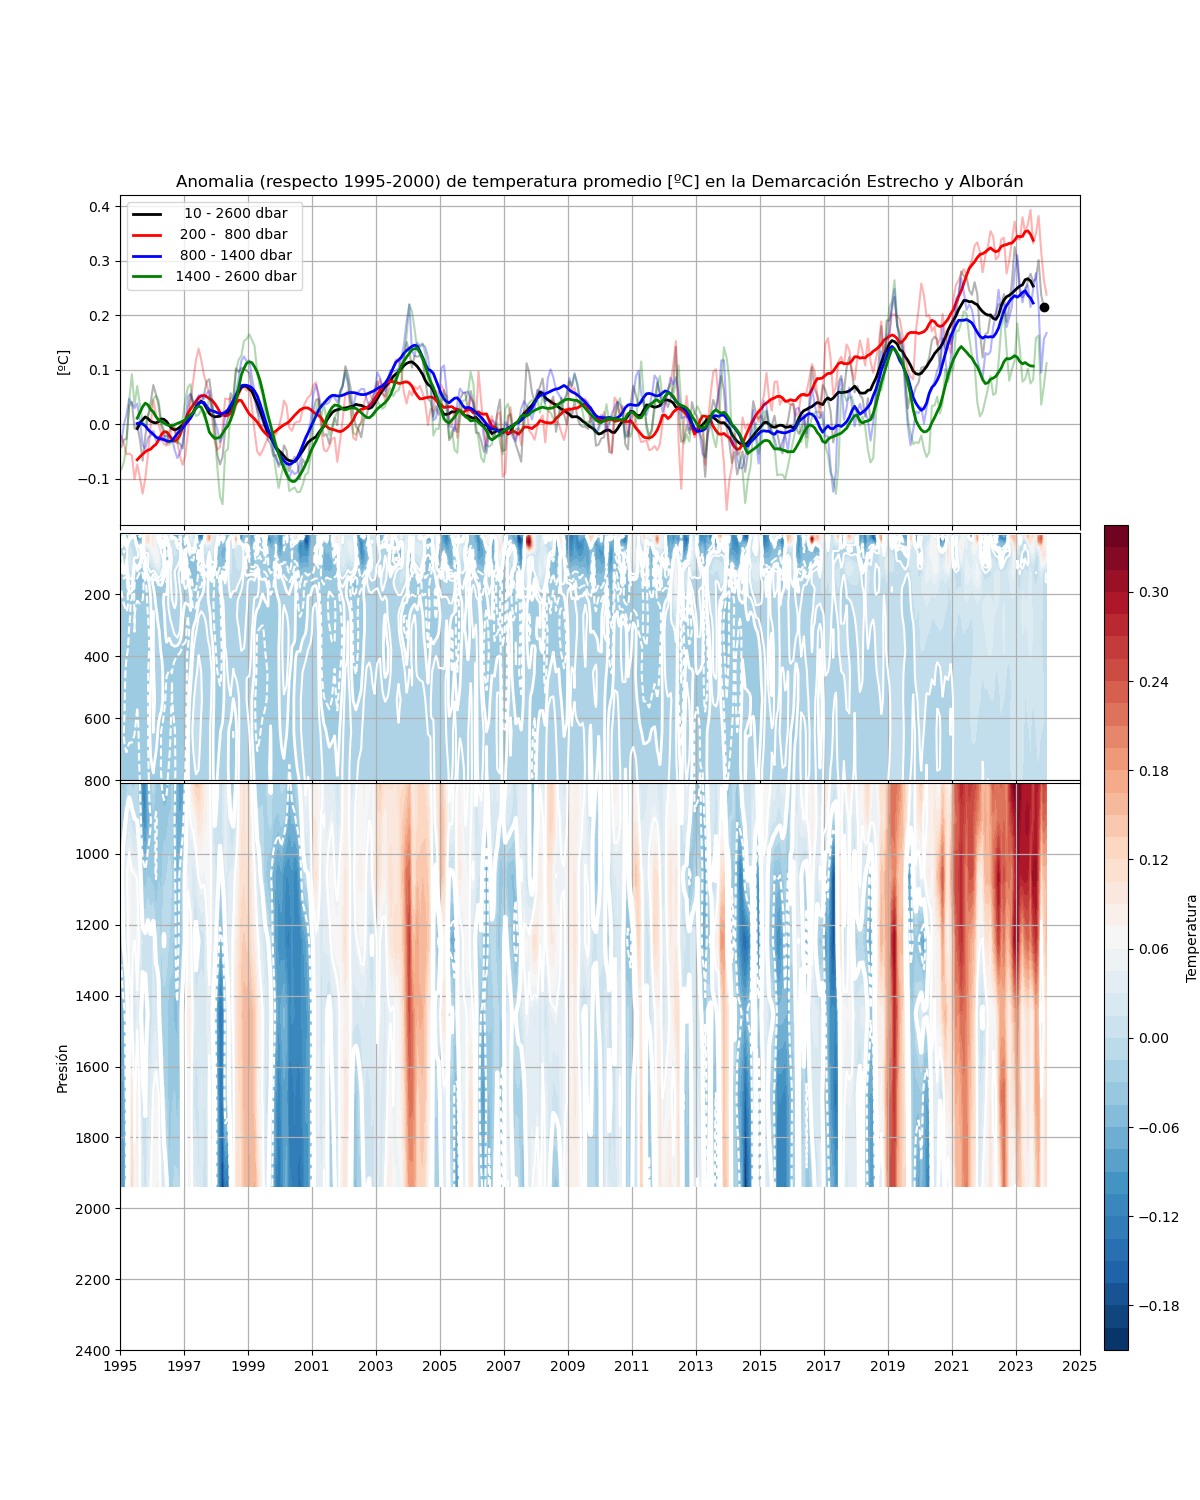
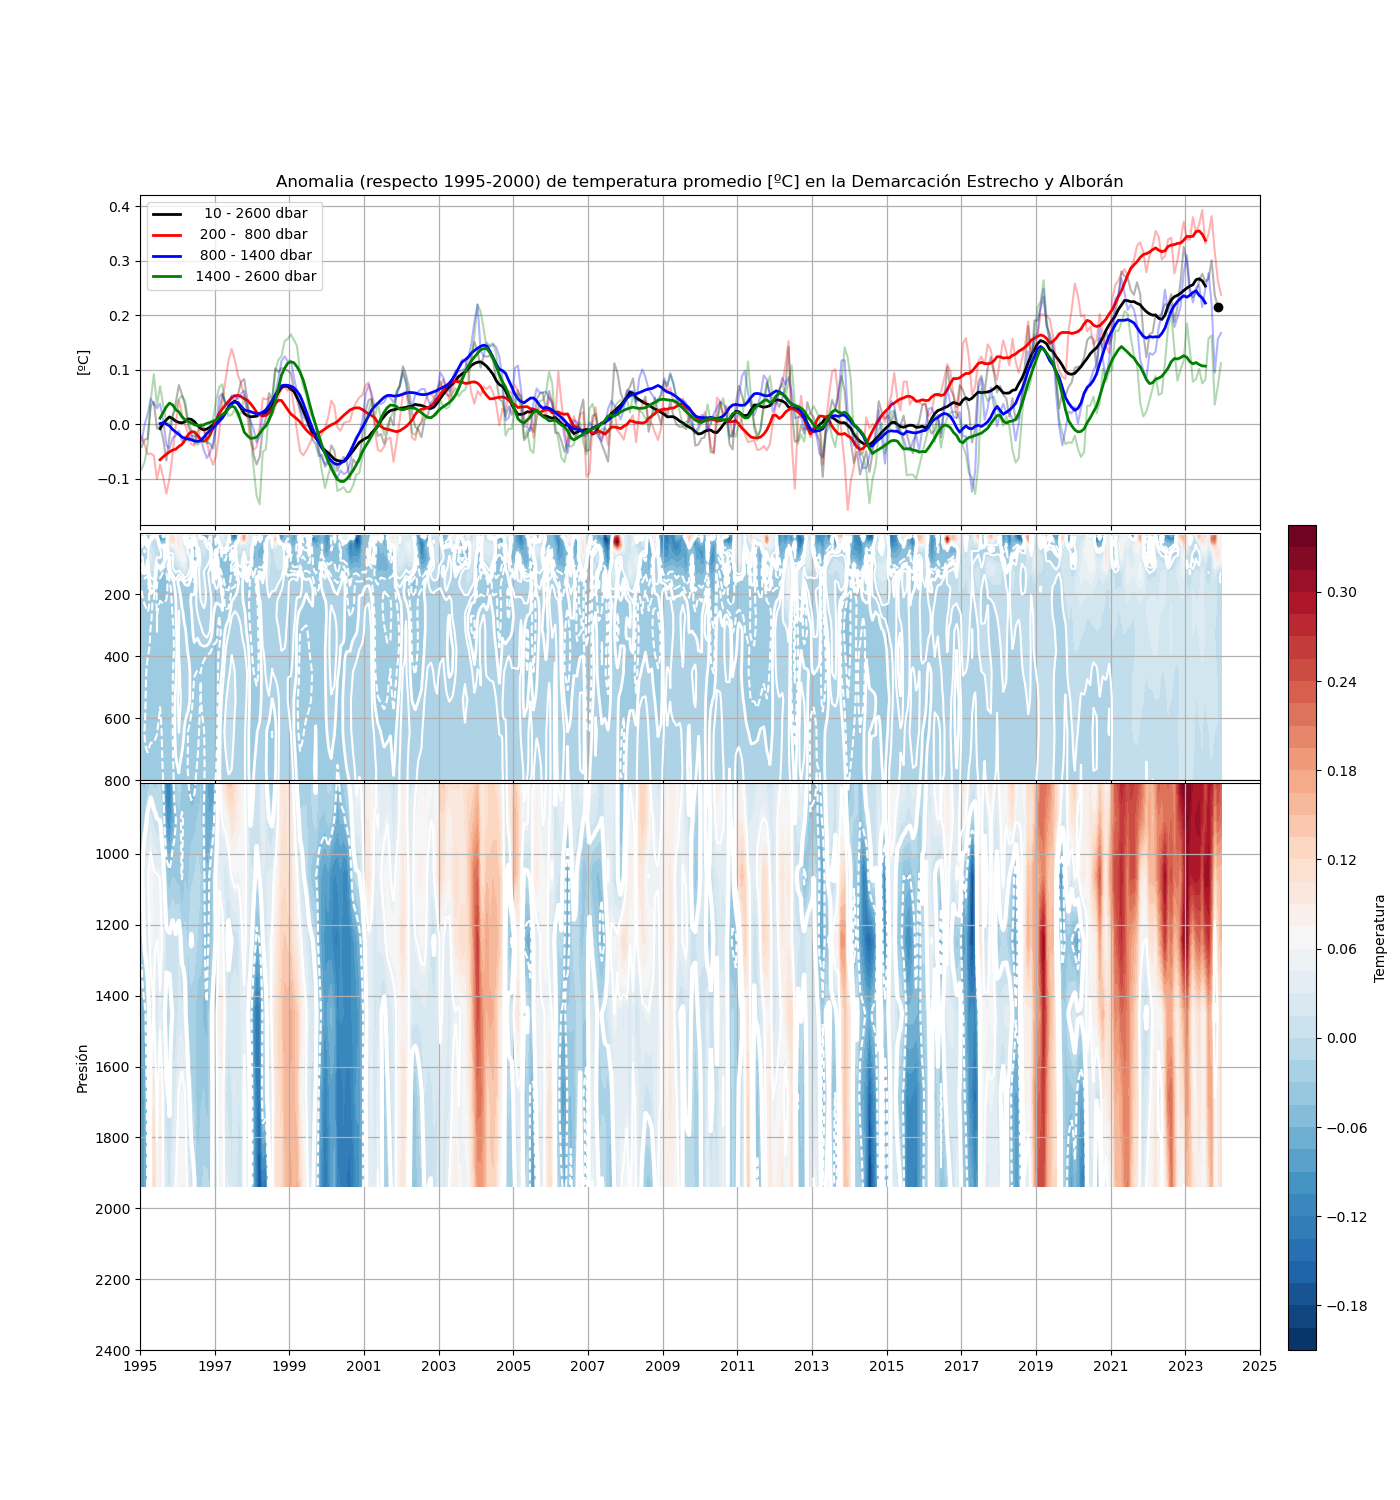
update

diff --git a/analisisDemarcacion_GLORYS.py b/analisisDemarcacion_GLORYS.py
@@ -47,7 +47,7 @@ yearC2='2000'
 
 
 # Load the demarcation data
-for iD in range(1,5):
+for iD in range(0,5):
    titulo = Titulos[iD]
    titulo_short = Titulos_short[iD]
    print('>>>>> '+titulo)
@@ -75,7 +75,7 @@ for iD in range(1,5):
 
    print('         > mapa')
    
-   fig = plt.figure(figsize=(14,8))
+   fig = plt.figure(figsize=(8,8))
    ax = plt.axes(projection=ccrs.Robinson())
 
    ax.contour(meanTemp_unmasked.longitude,meanTemp_unmasked.latitude,meanTemp_unmasked,10,colors='k', transform=ccrs.PlateCarree())
@@ -88,8 +88,9 @@ for iD in range(1,5):
    ax.gridlines(draw_labels=True, linewidth=.5,color='gray', alpha=0.5, linestyle='--')
 
    ax.top_labels = ax.right_labels = False
-   ax.set_title('Temperatura promedio a '+'10 '+'para la '+titulo);
+   #ax.set_title('Temperatura promedio a '+'10 '+'para la '+titulo);
    plt.savefig(imageDir+'/'+titulo_short+'_temp_promedio'+'10'+'.png')
+   plt.close(fig)
 
 # Calculos promedios
    print('         > calculando perfiles')
@@ -108,7 +109,7 @@ for iD in range(1,5):
    ax[0].invert_yaxis()
    ax[0].set_ylim([2000,0]);
    ax[0].grid()
-   ax[0].set_title(titulo_short+' perfil Temperatura');
+   #ax[0].set_title(titulo_short+' perfil Temperatura');
 
    ax[1].plot(prof_mean_salt,prof_mean_temp.depth,color='blue')  
    ax[1].plot(prof_mean_salt+1.5*prof_std_salt,prof_mean_salt.depth,color='red')  
@@ -116,8 +117,9 @@ for iD in range(1,5):
    ax[1].invert_yaxis()
    ax[1].set_ylim([2000,0]);
    ax[1].grid()
-   ax[1].set_title(titulo_short+' perfil Salinidad');
+   #ax[1].set_title(titulo_short+' perfil Salinidad');
    plt.savefig(imageDir+'/'+titulo_short+'_perfiles_T_S_promedio.png')
+   plt.close(fig)
    
 ## Seasonal cycle
    print('         > calculando seasonal')
@@ -133,8 +135,7 @@ for iD in range(1,5):
    fig, ax = plt.subplots(1, 1 , figsize=(5,5))
    ax.contourf(DC_temp_clim.mean(dim='longitude').sel(depth=10, method='nearest').month,
       DC_temp_clim.mean(dim='longitude').sel(depth=10, method='nearest').latitude,
-      DC_temp_clim.mean(dim='longitude').sel(depth=10, method='nearest').transpose(),
-      levels=12, vmin=-2, vmax=30)
+      DC_temp_clim.mean(dim='longitude').sel(depth=10, method='nearest').transpose(),30,cmap = plt.cm.RdBu.reversed())
    ax.grid()
    ax.set_ylabel('Latitud') 
    ax.set_xlabel('Mes')
@@ -158,10 +159,10 @@ for iD in range(1,5):
    DC_salt_anom_wmean = DC_salt_anom_weighted.mean(("longitude", "latitude"),skipna=True).load()
 
 
-   fig, ax = plt.subplots(2, 1 , sharex=True, figsize=(10,8))
+   fig, ax = plt.subplots(2, 1 , sharex=True, figsize=(14,8))
    ax[0].contourf(DC_temp_wmean.time, DC_temp_wmean.depth, 
-  DC_temp_wmean.transpose(), 32)
-   ax[0].set_title('Variacion temporal Temperatura promedio')
+  DC_temp_wmean.transpose(), 32,cmap = plt.cm.RdBu.reversed())
+   #ax[0].set_title('Variacion temporal Temperatura promedio')
    ax[0].set_ylabel('Presión') 
    ax[0].invert_yaxis()
    ax[0].set_ylim([200,0]);
@@ -169,11 +170,11 @@ for iD in range(1,5):
    ax[1].contourf(DC_temp_wmean.time, DC_temp_wmean.depth, 
   DC_temp_wmean.transpose(), 32)
    ax[1].set_ylabel('Presión') 
-   ax[1].set_xlabel('Año')
    ax[1].invert_yaxis()
    ax[1].set_ylim([2000,200]);
    fig.tight_layout()
    plt.savefig(imageDir+'/'+titulo_short+'_SeccionTemporal_T.png')
+   plt.close(fig)
 
 # Smoothed versions
    print('         > interpolo cada m')
@@ -190,7 +191,7 @@ for iD in range(1,5):
 
 
    Posiciones=[(0.10, 0.65, 0.8, 0.22), (0.10, 0.48, 0.8, 0.165),(0.10, 0.10, 0.8, 0.378)]
-   fig, ax = plt.subplots(3,1,figsize = (12,15),sharex=True)
+   fig, ax = plt.subplots(3,1,figsize = (14,15),sharex=True)
 
    # Mean values
    ax[0].plot(DCi_temp_anom_wmean.time[-2],
@@ -270,6 +271,7 @@ DCi_temp_anom_wmean.sel(depth=slice(10,800)).transpose(), 40, cmap='RdBu_r')
    ax[2].set_xticks(pd.date_range(start="1995-01-01", end="2025-01-01",freq='2YS-JAN'));
    ax[2].set_xticklabels(pd.date_range(start="1995-01-01", end="2025-01-01",freq='2YS-JAN').strftime('%Y'));
    plt.savefig(imageDir+'/'+titulo_short+'_temp_promedio_capas_contorno.png')
+   plt.close(fig)
 
    # Create a Dataset from the DataArrays
    Glorys_means = xr.Dataset({
@@ -286,7 +288,7 @@ DCi_temp_anom_wmean.sel(depth=slice(10,800)).transpose(), 40, cmap='RdBu_r')
 
 
 # 
-   fig, ax = plt.subplots(2,1, figsize=(10,12))
+   fig, ax = plt.subplots(2,1, figsize=(14,12))
    # Mean values
    media=DCi_temp_wmean.sel(depth=slice(200,2600)).mean("depth").mean('time')
    ax[0].plot(DCi_temp_wmean.time[-2],

diff --git a/uploadImages.py b/uploadImages.py
@@ -19,11 +19,11 @@ os.chdir(imagesDir)
 
 ## Demarcaciones
 session = ftplib.FTP('ftp.oceanografia.es',userFTP,passwdFTP)
-session.cwd('/html/IEOOS/reanalisis/images')
+session.cwd('/html/IEOOS/Clim/images')
 
 filenames = glob.glob(imagesDir+'/*.png')
 for filename in filenames:
-    print('https://www.oceanografia.es/IEOOS/reanalisis/images/'+filename.split('/')[-1])
+    print('https://www.oceanografia.es/IEOOS/Clim/images/'+filename.split('/')[-1])
     session.storbinary('STOR '+ filename.split('/')[-1], open(filename, 'rb'))
 
 session.quit()    
